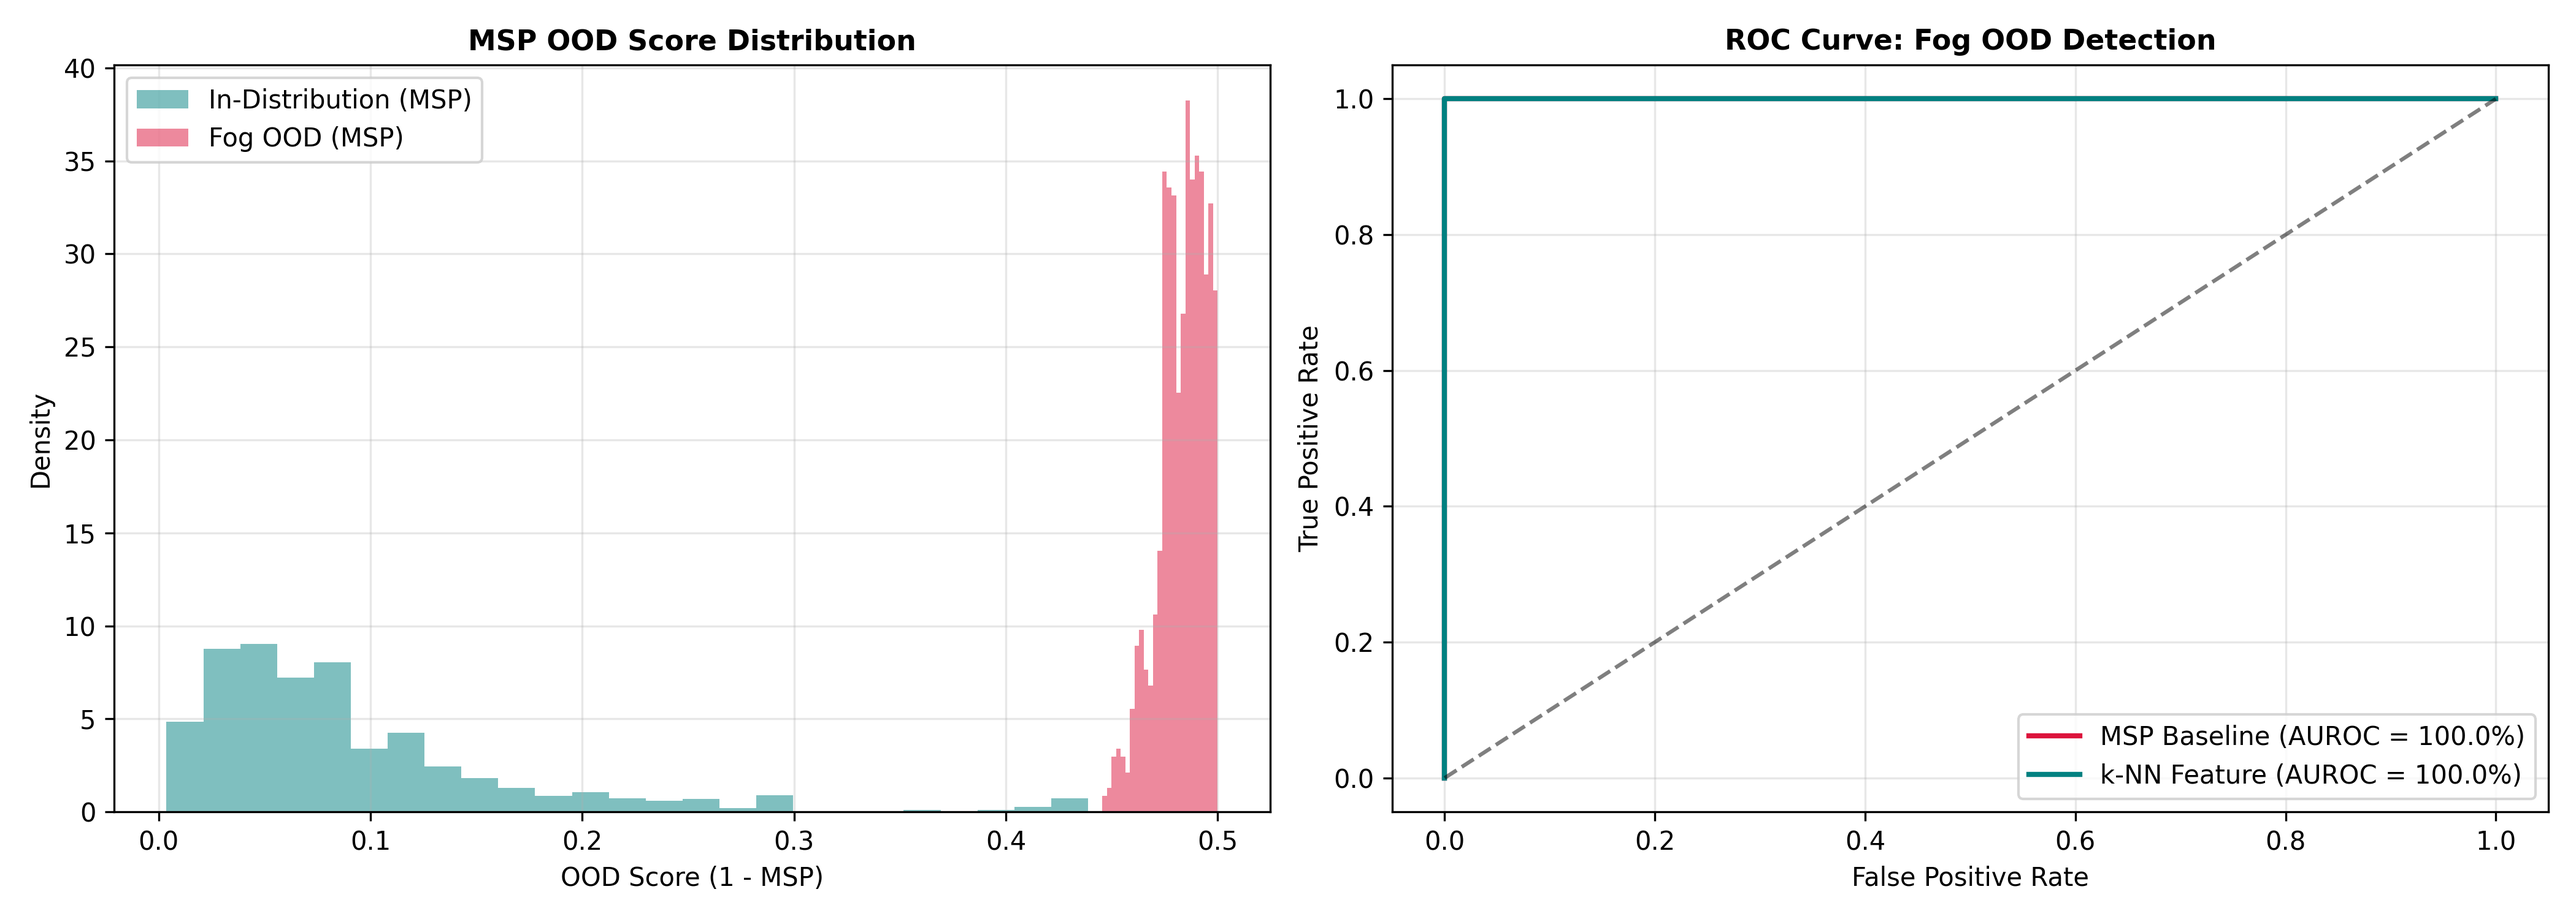
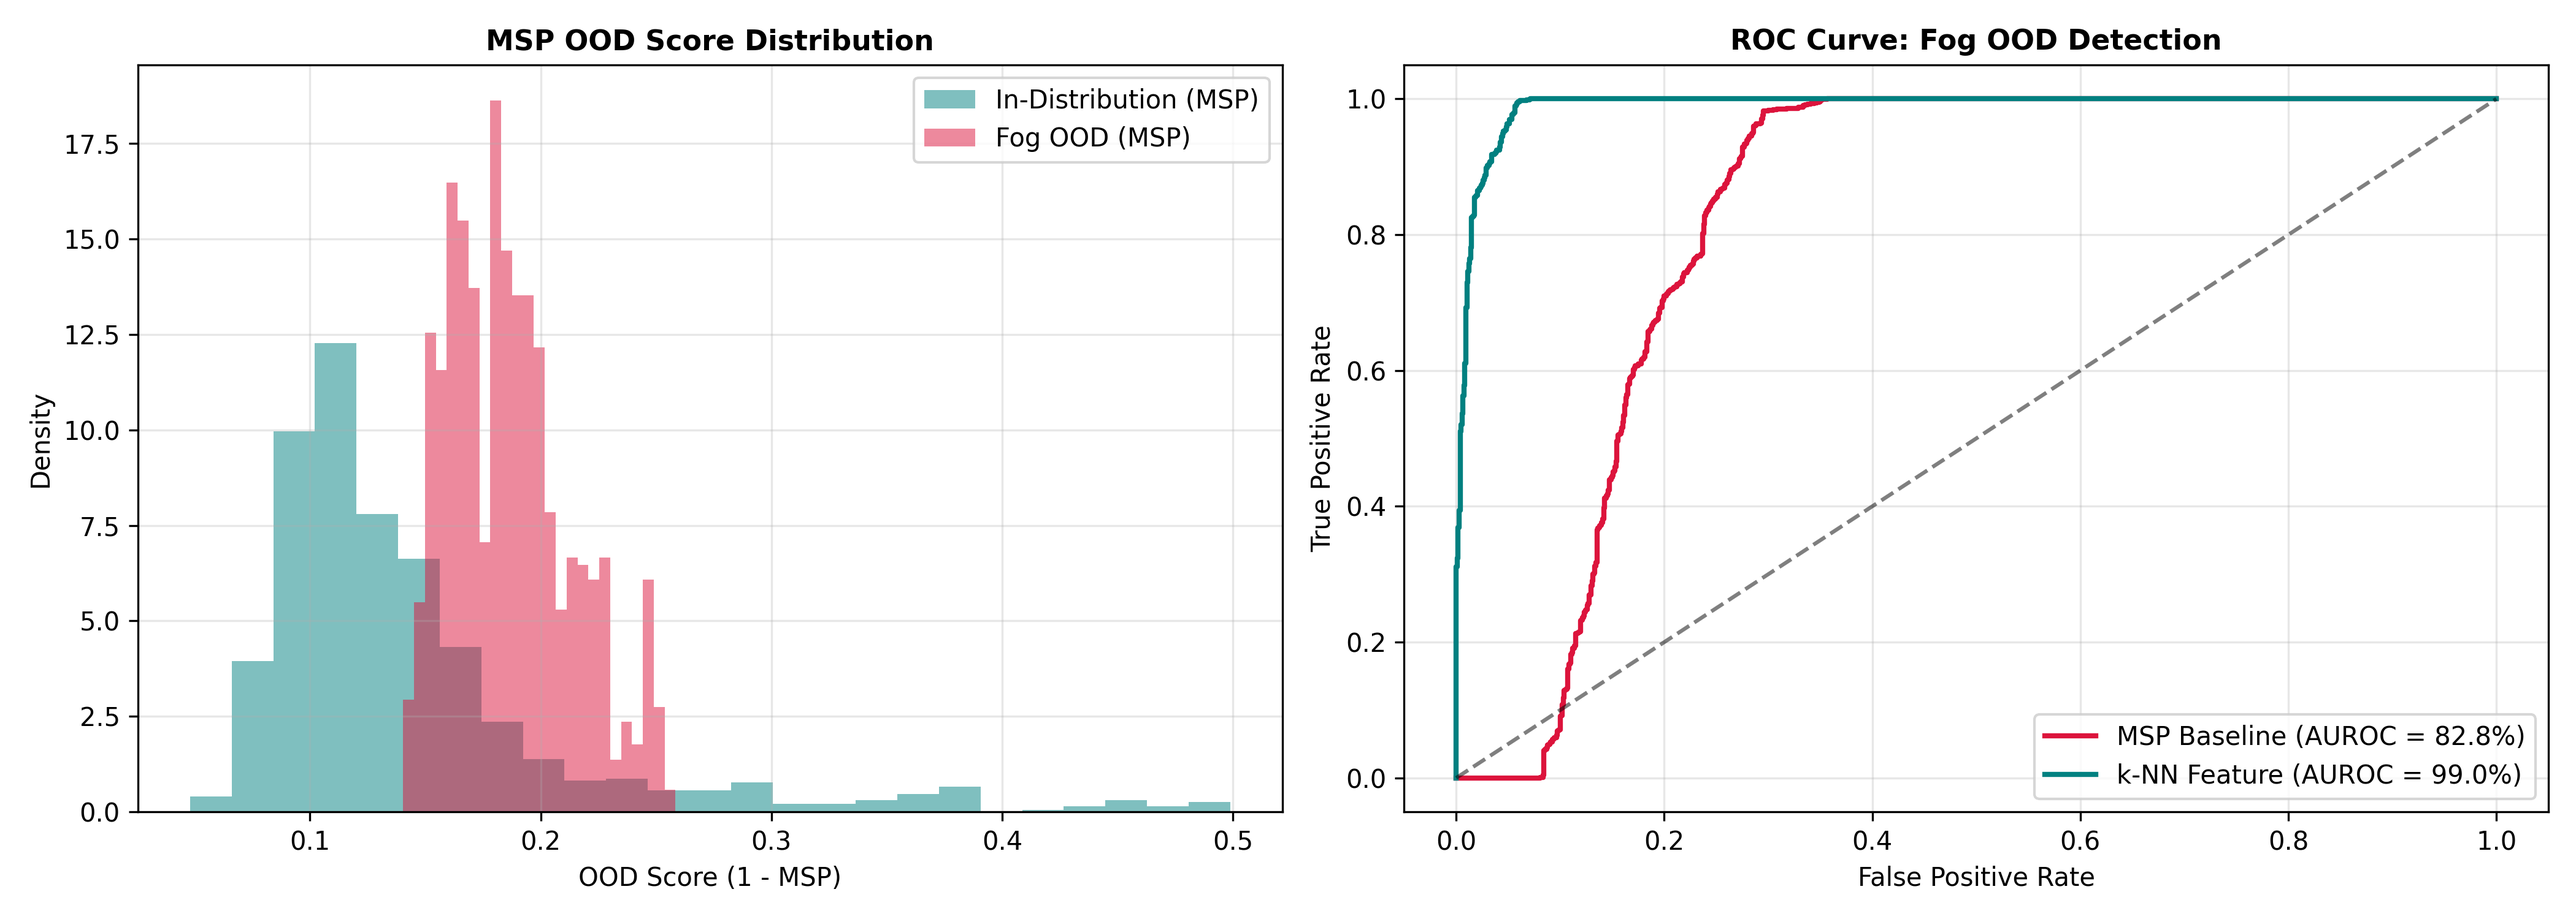
docs: sync complete Sheet 9 README report and evaluation figures

diff --git a/exercises/sheet_09_ood_detection/README.md b/exercises/sheet_09_ood_detection/README.md
@@ -7,11 +7,11 @@ This folder contains the quantitative evaluation, qualitative visualizations, an
 ## Exercise 9.4: Visualising Distribution Shift & Confidence Evaluation
 
 ### 1. Visual Inspection & Qualitative Grid
-The qualitative grid (`distribution_shift_visuals_v2.png`) visualizes five independent daytime test frames under three domain shifts:
+The qualitative grid (`distribution_shift_visuals.png`) visualizes five independent daytime test frames under three domain shifts:
 * **Sensor / Environmental Corruptions (Fog & Night):** Uniform degradation of signal-to-noise ratio, spatial contrast, and pixel dynamic range.
 * **Covariate / Structural Shift (Different CARLA Town):** High visual contrast and daylight conditions, but novel building geometries, road markings, and sidewalk textures unseen in training.
 
-![Distribution Shift Visuals](distribution_shift_visuals_v2.png)
+![Distribution Shift Visuals](distribution_shift_visuals.png)
 
 ---
 
